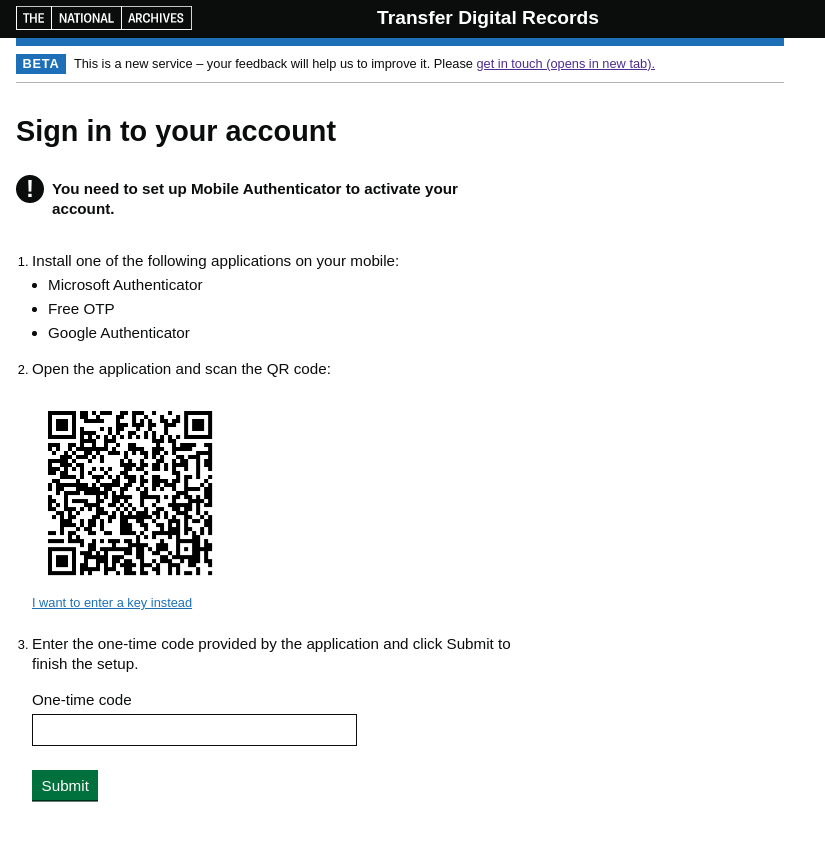
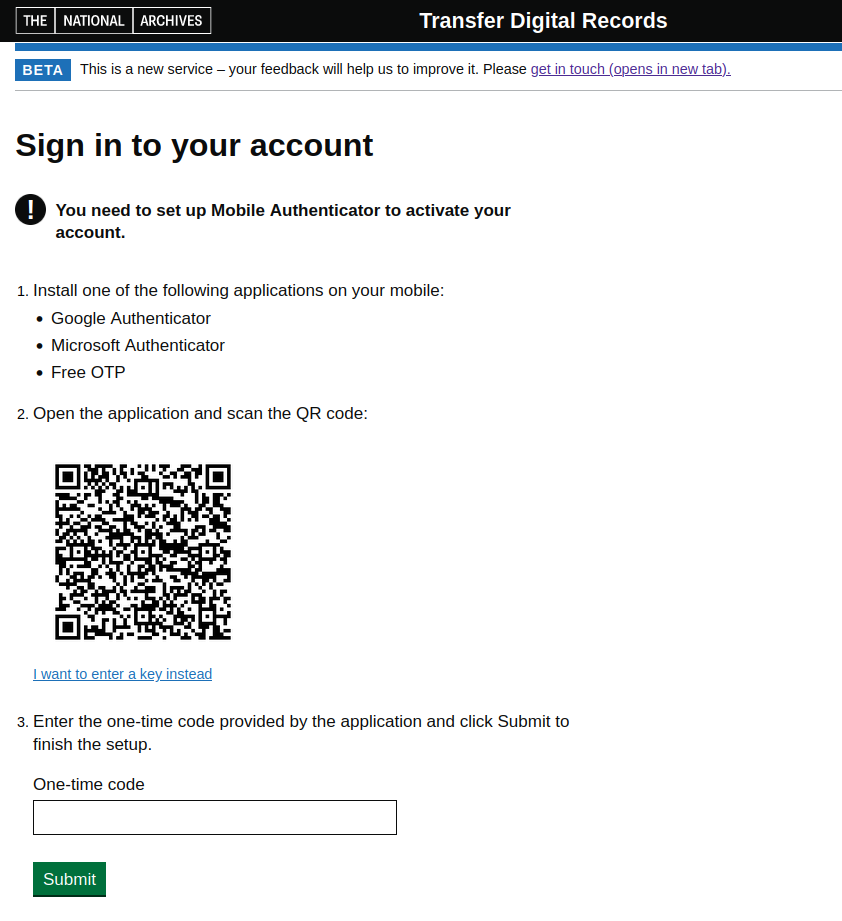
Tdr 1974 Update judgment help for google authenticator (#1745)

Changed region(s): [[0.0, 0.307, 0.6667, 0.9823], [0.0, 0.0, 1.0, 0.0921], [0.0, 0.1228, 0.6061, 0.2763]]

diff --git a/app/views/judgment/judgmentHelp.scala.html b/app/views/judgment/judgmentHelp.scala.html
@@ -58,10 +58,10 @@
 
         <h3 class="govuk-heading-s" id="secured-access">Secured access</h3>
         <p class="govuk-body">
-          In order to keep the service and your account secure from attack, TDR uses Multi-factor Authentication (MFA), which needs two separate pieces of information in order to authenticate and access the service. This means you will be required to sign in each time using a unique generated 'one-time password' (OTP) code that confirms who you are. This can be set up with a free-to-download authenticator app on your smartphone, such as Microsoft Authenticator, Google Authenticator, or FreeOTP. Other authenticators are available.
+          In order to keep the service and your account secure from attack, TDR uses Multi-factor Authentication (MFA), which needs two separate pieces of information in order to authenticate and access the service. This means you will be required to sign in each time using a unique generated 'one-time password' (OTP) code that confirms who you are. This can be set up with a free-to-download authenticator app on your smartphone, such as Google Authenticator, Microsoft Authenticator, or FreeOTP. Other authenticators are available.
         </p>
         <p class="govuk-body">
-          Free-to-download apps are available from the App Store for iPhone, or 'Google Play' and 'Play Store'.
+          Free-to-download apps are available from the App Store for iPhone, or 'Google Play' and 'Play Store' for Android.
         </p>
 
         <h3 class="govuk-heading-s" id="file-format">File format</h3>
@@ -106,7 +106,7 @@
 
         <h3 class="govuk-heading-s" id="why-otp">What is OTP and why do I need to use it?</h3>
         <p class="govuk-body">
-          In order to keep the service and your account secure from attack, TDR requires Multi-factor Authentication (MFA), which uses two separate pieces of information in order to authenticate access to the service. This means that, in addition to your personal password, you will be required to sign in each time using a <span class="govuk-!-font-weight-bold">'One-time password' (OTP) code</span> from an authenticator app, which you set up to generate a unique single use code that confirms who you are. Free authenticator apps can be downloaded onto your smartphone, such as Microsoft Authenticator, Google Authenticator, or FreeOTP. Other authenticators are available.
+          In order to keep the service and your account secure from attack, TDR requires Multi-factor Authentication (MFA), which uses two separate pieces of information in order to authenticate access to the service. This means that, in addition to your personal password, you will be required to sign in each time using a <span class="govuk-!-font-weight-bold">'One-time password' (OTP) code</span> from an authenticator app, which you set up to generate a unique single use code that confirms who you are. Free authenticator apps can be downloaded onto your smartphone, such as Google Authenticator, Microsoft Authenticator, or FreeOTP. Other authenticators are available.
         </p>
         <p class="govuk-body">
           Free-to-download apps are available from the App Store for iPhone, or 'Google Play' and 'Play Store'.
@@ -124,10 +124,10 @@
               <li>Open your downloaded authenticator app on your mobile.</li>
               <li>Create a new TDR-related account on the app using the QR code displayed on your screen:
                 <ul class="govuk-body">
+                  <li>For Google Authenticator, click on the first option 'Scan a QR code'.</li>
                   <li>
                     For Microsoft Authenticator, first click on the <span class="govuk-!-font-weight-bold">'+'</span> icon to add an account. Note that you might need to click on the three little dots in the top right corner to have this option displayed. Then select <span class="govuk-!-font-weight-bold">"Other (Google, Facebook, etc.)"</span> to access the QR scanner.</li>
                   <li>For Free OTP, click on the QR code icon located in the top banner of your smartphone screen.</li>
-                  <li>For Google Authenticator, click on the first option 'Scan a QR code'.</li>
                 </ul>
               </li>
               <li>Scan the QR code displayed on your computer screen</li>
